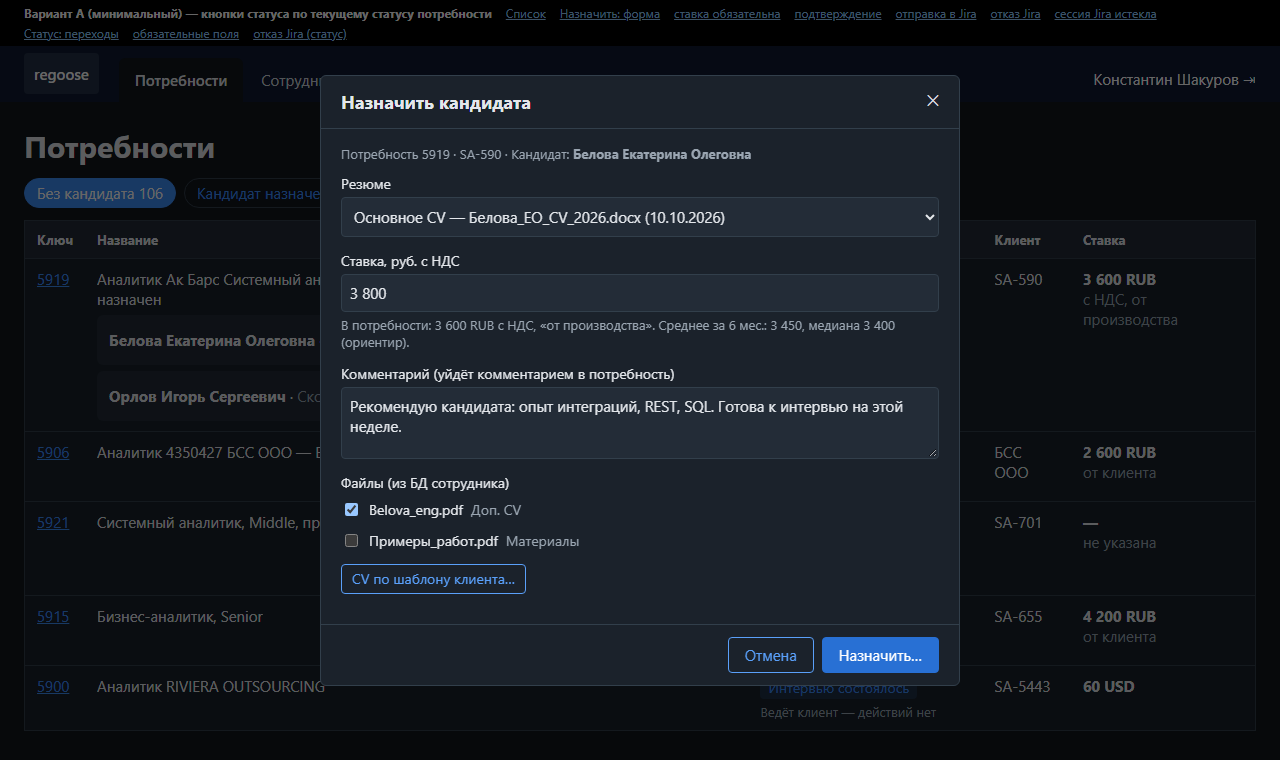
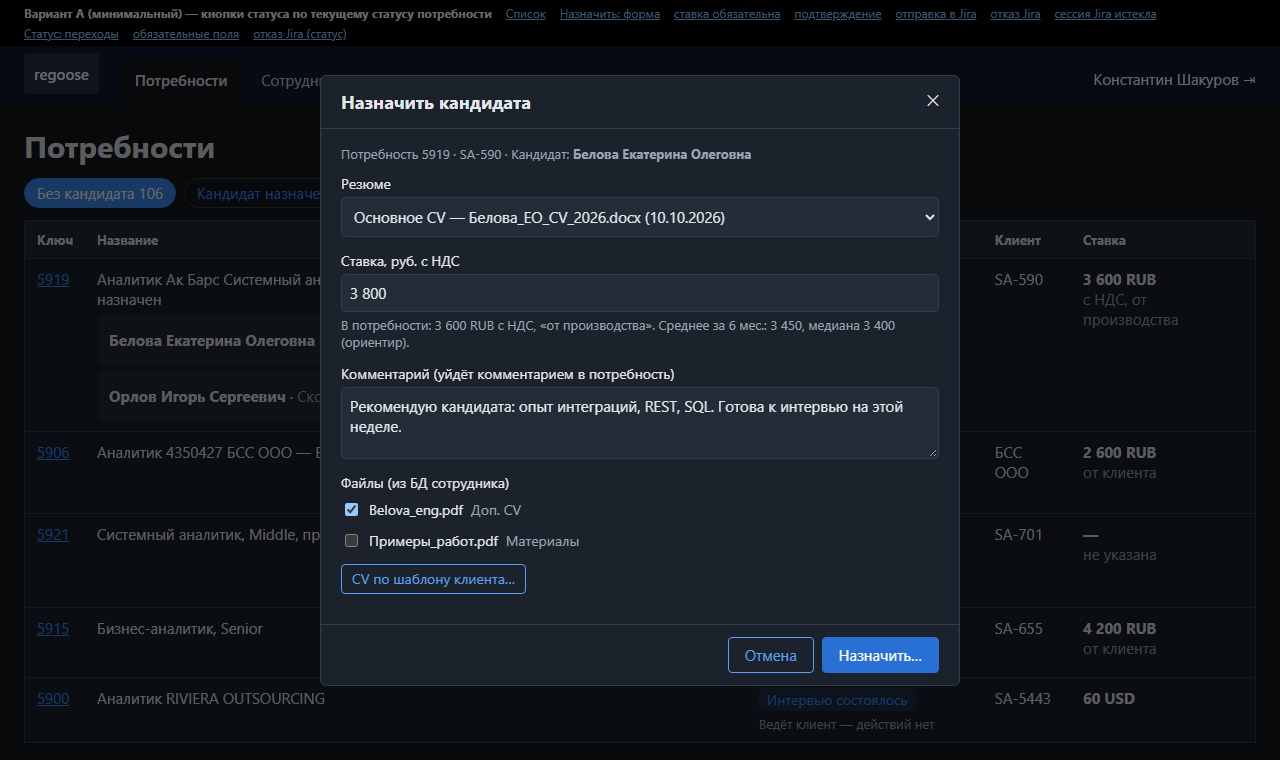
design: KON-79 no status button for 'Otkaz po kandidatu' (assign via Sopostavit/Naznachit only)

diff --git a/design/KON-79/variant_a.html b/design/KON-79/variant_a.html
@@ -86,7 +86,7 @@ body[data-s="status_refused"] [data-v="status_refused"]{display:flex}
 <div class="cand"><span><b>Белова Екатерина Олеговна</b> · <span class="muted">Свободен</span></span><span class="pct">87%</span><button class="btn small sec">Резюме</button><button class="btn small primary">Назначить</button></div>
 <div class="cand"><span><b>Орлов Игорь Сергеевич</b> · <span class="muted">Скоро освобождается</span></span><span class="pct">72%</span><button class="btn small sec">Резюме</button><button class="btn small primary">Назначить</button></div></td>
 <td><span class="st">Поиск кандидата</span><div class="acts"><button class="lnk">Найм</button><button class="lnk">Кандидатов нет</button></div></td><td>SA-590</td><td><b>3 600 RUB</b><div class="muted">с НДС, от производства</div></td></tr>
-<tr><td><a href="#">5906</a></td><td>Аналитик 4350427 БСС ООО — Выделенная команда Бизнес аналитик Middle</td><td><span class="st" style="background:#ff8a8022;color:var(--err)">Отказ по кандидату</span><div class="acts"><button class="lnk">Кандидат назначен</button></div></td><td>БСС ООО</td><td><b>2 600 RUB</b><div class="muted">от клиента</div></td></tr>
+<tr><td><a href="#">5906</a></td><td>Аналитик 4350427 БСС ООО — Выделенная команда Бизнес аналитик Middle</td><td><span class="st" style="background:#ff8a8022;color:var(--err)">Отказ по кандидату</span><div class="hint" style="margin-top:4px">Назначение — через «Сопоставить»</div></td><td>БСС ООО</td><td><b>2 600 RUB</b><div class="muted">от клиента</div></td></tr>
 <tr><td><a href="#">5921</a></td><td>Системный аналитик, Middle, проект «Тест»</td><td><span class="st" style="background:#9aa5b122;color:var(--muted)">Требуется кандидат</span><div class="acts"><button class="lnk">Поиск</button><button class="lnk">Найм</button><button class="lnk">Кандидатов нет</button></div></td><td>SA-701</td><td><b>—</b><div class="muted">не указана</div></td></tr><tr><td><a href="#">5915</a></td><td>Бизнес-аналитик, Senior</td><td><span class="st">Кандидатов нет</span><div class="acts"><button class="lnk">Поиск</button><button class="lnk">Найм</button></div></td><td>SA-655</td><td><b>4 200 RUB</b><div class="muted">от клиента</div></td></tr><tr><td><a href="#">5900</a></td><td>Аналитик RIVIERA OUTSOURCING</td><td><span class="st" style="background:#3e8ef722;color:var(--accent)">Интервью состоялось</span><div class="hint" style="margin-top:4px">Ведёт клиент — действий нет</div></td><td>SA-5443</td><td><b>60 USD</b></td></tr></tbody></table></main>
 <div class="backdrop" data-v="assign"><div class="modal" role="dialog" aria-label="Назначить кандидата"><div class="m-head"><h2>Назначить кандидата</h2><span>✕</span></div><div class="m-body"><div class="ctx">Потребность 5919 · SA-590 · Кандидат: <b>Белова Екатерина Олеговна</b></div>
 <div class="field"><label>Резюме</label><select><option>Основное CV — Белова_ЕО_CV_2026.docx (10.10.2026)</option><option>Доп. CV — Belova_eng.pdf</option><option>CV по шаблону клиента — Ак Барс</option></select></div>

diff --git a/design/KON-79/status_actions.md b/design/KON-79/status_actions.md
@@ -7,7 +7,7 @@
 1. целевой статус входит в **белый список действий РН/РО/Presale**: «Поиск кандидата», «Кандидат назначен», «Найм», «Кандидатов нет»;
 2. Jira отдала этот переход для текущего статуса потребности (`GET /transitions`, FR-026) — права и workflow определяет Jira.
 
-Остальные переходы (интервью, закреплён, на проекте, отложено, неактуально и др.) ведут клиентская служба и автор потребности; в приложении их нет. Статусы без наших действий показывают пометку «Ведёт клиент — действий нет».
+Остальные переходы (интервью, закреплён, на проекте, отложено, неактуально и др.) ведут клиентская служба и автор потребности; в приложении их нет. Статусы без наших действий (включая «Отказ по кандидату») показывают пометку «Ведёт клиент — действий нет».
 
 ## Матрица (исходное состояние → кнопки)
 | Статус потребности | Кнопки в столбце «Статус» | Назначение кандидата |
@@ -17,7 +17,7 @@
 | Кандидатов нет | **Поиск**, **Найм** | по запросу Jira (если отдаёт переход) |
 | Найм | **Поиск**, **Кандидатов нет** | по запросу Jira |
 | Кандидат назначен | **Поиск**, **Найм**, **Кандидатов нет** | повторное «Назначить» заменяет назначение (FR-010) |
-| Отказ по кандидату | **Кандидат назначен** (возврат) | — |
+| Отказ по кандидату | нет кнопок статуса | «Назначить» у кандидата из «Сопоставить» → Jira переводит в «Кандидат назначен» |
 | Прочие (Интервью…, Закреплён, На проекте, Отложено, Неактуально, …) | нет | нет |
 
 Подписи кнопок — как целевые статусы Jira, кроме «Поиск» (переход в «Поиск кандидата»). Матрица — стартовая; окончательный состав берётся из ответа Jira (п. 2 правила), поэтому расхождения диаграммы и реальных переходов не ломают UI.
@@ -26,8 +26,7 @@
 - **Поиск** — перевод в «Поиск кандидата»: подтверждение одним кликом (поля Jira — если запросит переход).
 - **Найм** — перевод в «Найм»: подтверждение, поля по запросу Jira.
 - **Кандидатов нет** — диалог: «Причина отсутствия кандидата» (справочник Jira, обязательна) и «Комментарий» (обязателен, видимость «для всех»).
-- **Кандидат назначен** (из «Отказ по кандидату») — подтверждение; кандидат и ставка не вводятся.
-- «Назначить» у кандидата — окно из варианта A; статус меняет Jira.
+- «Назначить» у кандидата (в том числе для потребности в «Отказ по кандидату») — окно из варианта A; статус «Кандидат назначен» меняет Jira. Отдельной кнопки «Кандидат назначен» в столбце «Статус» нет: назначение делается только через сопоставление и «Назначить».
 Отказ Jira — текст как есть, введённое сохранено, «Повторить». После успеха потребность перечитывается, чип и кнопки обновляются.
 
 ## Фильтры и настройки (замечания 1.1 и «Предложения 1»)
@@ -38,5 +37,5 @@
 ## Изменения требований (в составе CR-005)
 - FR-011: статусы «Поиск кандидата», «Кандидатов нет», «Найм» (было: «Кандидатов нет» и «Найм»).
 - FR-026: белый список целевых статусов и пересечение с переходами Jira; без универсального выбора.
-- FR-008: статус «Кандидат назначен» при назначении меняет Jira; из «Отказ по кандидату» — кнопка возврата.
+- FR-008: статус «Кандидат назначен» при назначении меняет Jira, в том числе из «Отказ по кандидату» (кнопки статуса «Кандидат назначен» в списке нет).
 - UC-002: сценарий по кнопкам выше.
